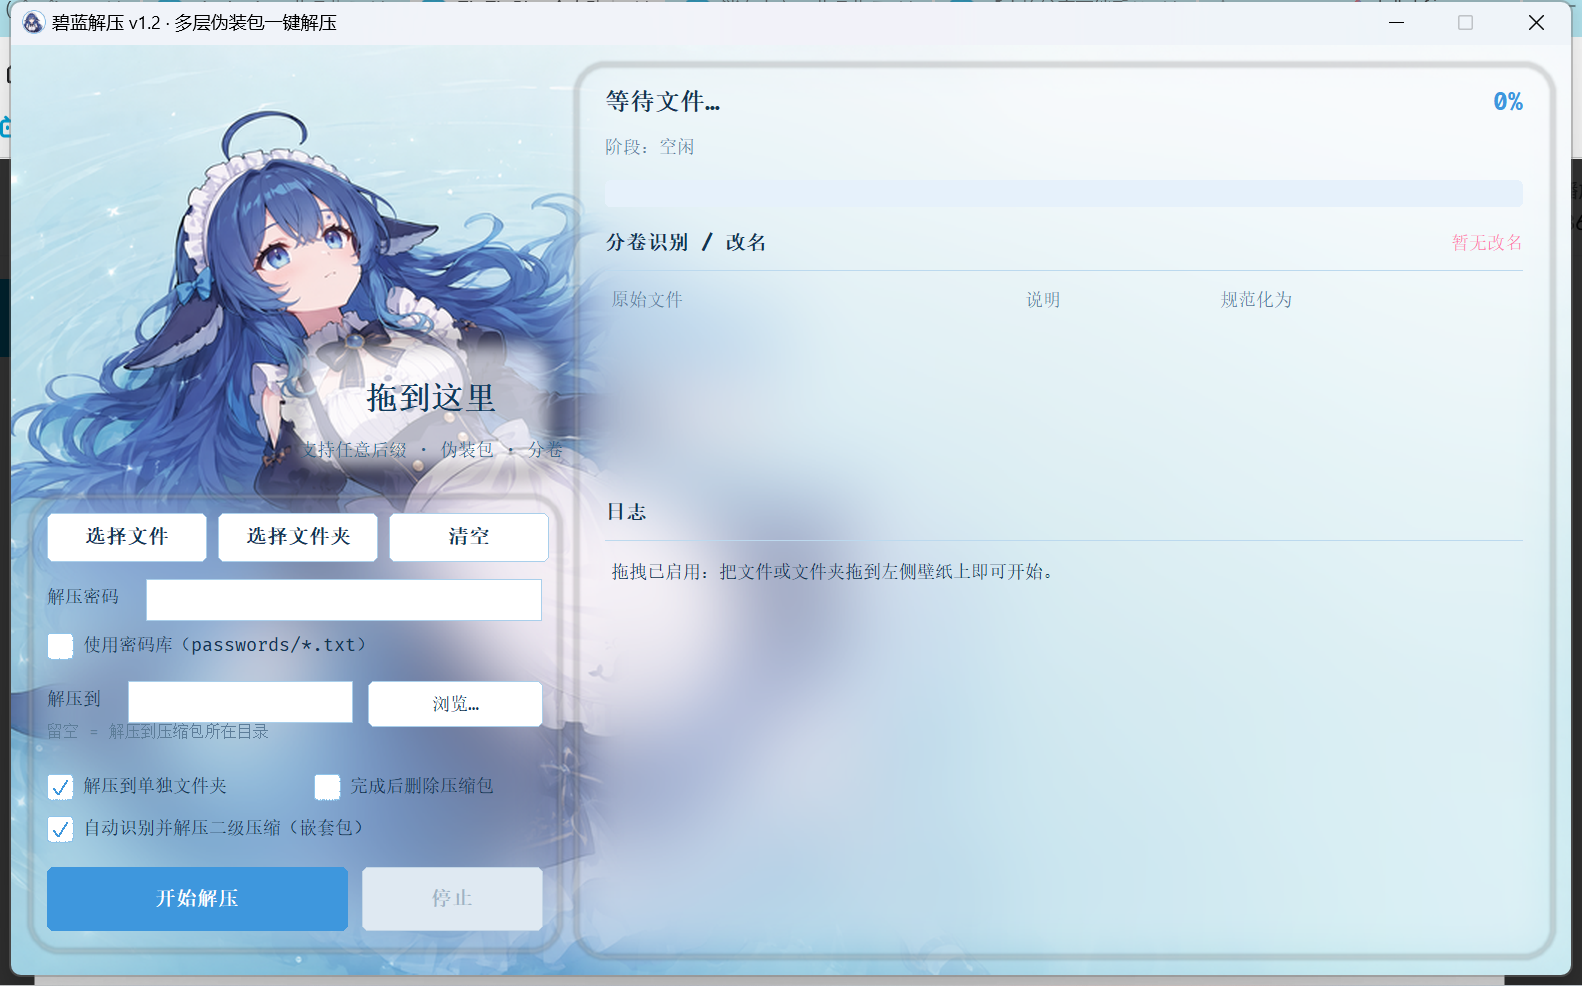
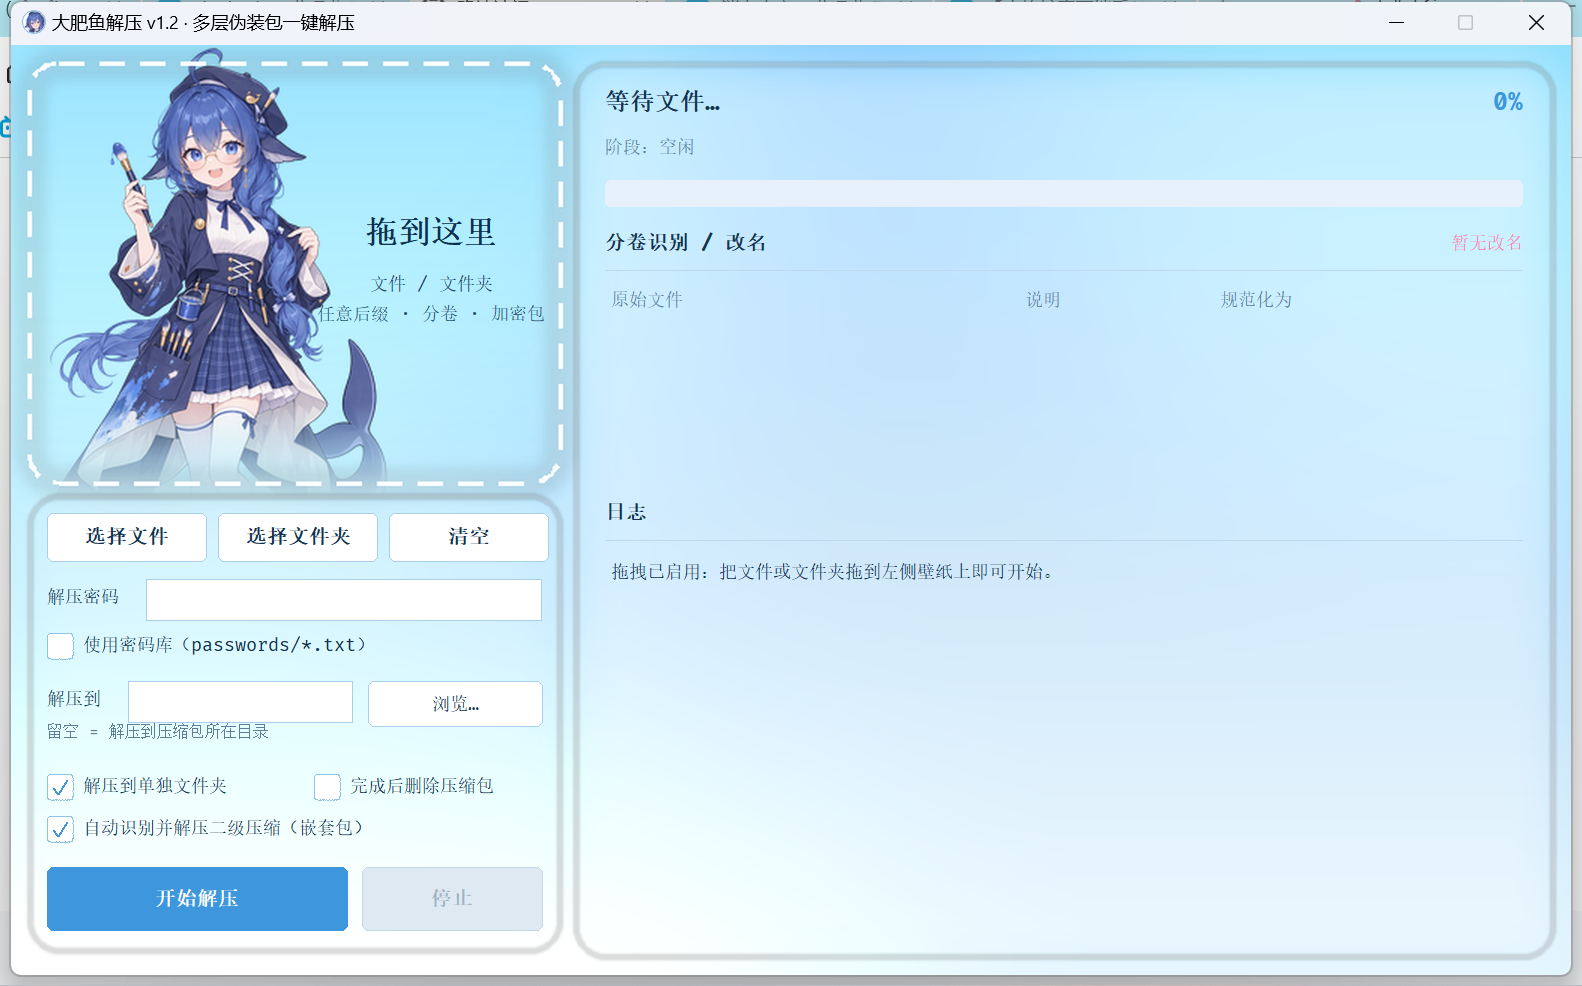
改名：大肥鱼解压 v1.2

diff --git a/make_assets.py b/make_assets.py
@@ -44,10 +44,22 @@ glow = glow.filter(ImageFilter.GaussianBlur(90))
 base = ImageChops.add(base, glow.point(lambda v: int(v * 0.18)))
 base = base.convert('RGBA')
 
-# 2) 插画：整窗铺满（镜像让人物落在左侧投放区）
-art = Image.open(os.path.join(ART, 'hd_water.png')).convert('RGB')
-art = art.transpose(Image.FLIP_LEFT_RIGHT)
-base = cover(art, W, H, anchor_x=0.5, anchor_y=0.45).convert('RGBA')
+# 2) 人物：高清透明立绘，放在投放区右侧（原阿罗娜位置）
+char = Image.open(os.path.join(ART, 'char_hd.png')).convert('RGBA')
+char = char.crop((0, 0, char.width, int(char.height * 0.72)))    # 头到膝
+target_h = 300
+ratio = target_h / char.height
+char = char.resize((max(1, int(char.width * ratio)), target_h), Image.LANCZOS)
+
+fmask = Image.new('L', char.size, 255)
+md = ImageDraw.Draw(fmask)
+fade = 64
+for i in range(fade):
+    y = char.height - fade + i
+    md.line([(0, y), (char.width, y)], fill=int(255 * (1 - i / fade)))
+char.putalpha(ImageChops.multiply(char.getchannel('A'), fmask))
+
+base.alpha_composite(char, (DROP_BOX[0] + 6, 2))
 
 # 3) 毛玻璃面板
 blur = base.filter(ImageFilter.GaussianBlur(24))
@@ -56,8 +68,7 @@ for box, alpha in ((LEFT_BOX, 0.26), (RIGHT_BOX, 0.42)):
     mask = Image.new('L', (W, H), 0)
     ImageDraw.Draw(mask).rounded_rectangle(box, radius=20, fill=255)
     mask = mask.filter(ImageFilter.GaussianBlur(14))
-    frosted = Image.blend(blur, white, alpha)
-    base = Image.composite(frosted, base, mask)
+    base = Image.composite(Image.blend(blur, white, alpha), base, mask)
 
 edge = Image.new('RGBA', (W, H), (0, 0, 0, 0))
 ed = ImageDraw.Draw(edge)
@@ -65,19 +76,64 @@ for box in (LEFT_BOX, RIGHT_BOX):
     ed.rounded_rectangle(box, radius=20, outline=(255, 255, 255, 140), width=2)
 base = Image.alpha_composite(base, edge.filter(ImageFilter.GaussianBlur(1.2)))
 
-# 4) 投放区文字底衬（让"拖到这里"在人物上也能看清）
-plate = Image.new('RGBA', (W, H), (0, 0, 0, 0))
-pl = ImageDraw.Draw(plate)
-pl.rounded_rectangle([150, 198, 364, 288], radius=18, fill=(255, 255, 255, 172))
-plate = plate.filter(ImageFilter.GaussianBlur(7))
-base = Image.alpha_composite(base, plate)
+# 4) 投放区：虚线边框 + 底部文字底衬
+def dashed_round_rect(draw, box, radius, color, width=3, dash=16, gap=11):
+    import math
+    x0, y0, x1, y1 = box
+    path = []
+    def arc(cx, cy, a0, a1, steps=14):
+        for i in range(steps + 1):
+            a = math.radians(a0 + (a1 - a0) * i / steps)
+            path.append((cx + math.cos(a) * radius, cy + math.sin(a) * radius))
+    path.append((x0 + radius, y0))
+    path.append((x1 - radius, y0)); arc(x1 - radius, y0 + radius, -90, 0)
+    path.append((x1, y1 - radius)); arc(x1 - radius, y1 - radius, 0, 90)
+    path.append((x0 + radius, y1)); arc(x0 + radius, y1 - radius, 90, 180)
+    path.append((x0, y0 + radius)); arc(x0 + radius, y0 + radius, 180, 270)
+
+    prev = path[0]
+    on, acc = True, 0.0
+    for cur in path[1:]:
+        seg = math.dist(prev, cur)
+        if seg <= 0:
+            continue
+        t = 0.0
+        while t < seg:
+            remain = (dash if on else gap) - acc
+            step = min(remain, seg - t)
+            x_prev = prev[0] + (cur[0] - prev[0]) * (t / seg)
+            y_prev = prev[1] + (cur[1] - prev[1]) * (t / seg)
+            x_next = prev[0] + (cur[0] - prev[0]) * ((t + step) / seg)
+            y_next = prev[1] + (cur[1] - prev[1]) * ((t + step) / seg)
+            if on:
+                draw.line([(x_prev, y_prev), (x_next, y_next)], fill=color, width=width)
+            t += step
+            acc += step
+            if acc >= (dash if on else gap):
+                acc = 0.0
+                on = not on
+        prev = cur
+
+
+dl = Image.new('RGBA', (W, H), (0, 0, 0, 0))
+dd = ImageDraw.Draw(dl)
+dd.rounded_rectangle([DROP_BOX[0] - 3, DROP_BOX[1] - 3, DROP_BOX[2] + 3, DROP_BOX[3] + 3],
+                     radius=22, outline=(255, 255, 255, 90), width=8)
+base = Image.alpha_composite(base, dl.filter(ImageFilter.GaussianBlur(6)))
+
+dl2 = Image.new('RGBA', (W, H), (0, 0, 0, 0))
+dashed_round_rect(ImageDraw.Draw(dl2), DROP_BOX, 20, (255, 255, 255, 240), width=3)
+base = Image.alpha_composite(base, dl2)
+
 
 base.convert('RGB').save(os.path.join(OUT, 'wallpaper.png'), optimize=True)
 print('wallpaper.png', base.size)
 
 # ---------------------------------------------------------------- 图标（取正面立绘头部）
-sheet = Image.open(os.path.join(ART, 'hd_sheet.png')).convert('RGB')
-head = sheet.crop((250, 20, 640, 410)).resize((512, 512), Image.LANCZOS).convert('RGBA')
+sheet = Image.open(os.path.join(ART, 'char_hd.png')).convert('RGBA')
+head = sheet.crop((300, 70, 790, 560)).resize((512, 512), Image.LANCZOS)
+pad = Image.new('RGBA', head.size, (255, 255, 255, 255))
+head = Image.alpha_composite(pad, head)
 
 S = 512
 icon = Image.new('RGBA', (S, S), (0, 0, 0, 0))

diff --git a/unzip_gui.py b/unzip_gui.py
@@ -367,11 +367,13 @@ class App:
     # ------------------------------------------------------------- 投放区
     def _draw_drop_area(self):
         x0, y0, x1, y1 = DROP
-        cx = x1 - 86
-        self.canvas.create_text(cx, y0 + 224, text="拖到这里", font=(F, 16, "bold"),
-                                fill="#0f3a5c", tags="drop")
-        self.canvas.create_text(cx, y0 + 258, text="支持任意后缀 · 伪装包 · 分卷",
-                                font=FONT_SM, fill="#2c5d80", tags="drop")
+        cx = x0 + 268
+        self.canvas.create_text(cx, y0 + 113, text="拖到这里", font=(F, 16, "bold"),
+                                fill="#0b3050", tags="drop")
+        self.canvas.create_text(cx, y0 + 147, text="文件 / 文件夹", font=(F, 9),
+                                fill="#1b4260", tags="drop")
+        self.canvas.create_text(cx, y0 + 167, text="任意后缀 · 分卷 · 加密包",
+                                font=(F, 9), fill="#2c5570", tags="drop")
 
     def _draw_drop_hint(self, hover):
         self.canvas.delete("drophint")

diff --git a/README.md b/README.md
@@ -1,4 +1,4 @@
-# 碧蓝解压（Blue Unzip）
+# 大肥鱼解压（Blue Unzip）
 
 > 多层伪装压缩包一键解压工具 · Windows 图形界面
 > 把「改成任意后缀的压缩包」「改名过的分卷包」拖进来，一键解到最内层。
@@ -24,8 +24,8 @@
 
 ## 快速开始
 
-1. 下载 Release 里的 `碧蓝解压_vX.X.zip`，解压到任意目录（**整个文件夹一起用**，别只拿 exe）。
-2. 双击 `碧蓝解压.exe`。
+1. 下载 Release 里的 `大肥鱼解压_vX.X.zip`，解压到任意目录（**整个文件夹一起用**，别只拿 exe）。
+2. 双击 `大肥鱼解压.exe`。
 3. 把文件或文件夹拖到左侧区域即可。
 
 > 内置 `7z/` 是解压引擎，`assets/` 是主题素材与字体，缺一不可。
@@ -40,7 +40,7 @@
 ## 命令行版
 
 ```bat
-碧蓝解压-命令行.exe [选项] 文件或文件夹 [更多路径…]
+大肥鱼解压-命令行.exe [选项] 文件或文件夹 [更多路径…]
 
   --out DIR        解压到指定目录
   --no-separate    不再套一层同名文件夹
@@ -58,7 +58,7 @@ py unzip_gui.py
 打包（需要 PyInstaller）：
 
 ```bat
-py -m PyInstaller --onefile --windowed --name 碧蓝解压 ^
+py -m PyInstaller --onefile --windowed --name 大肥鱼解压 ^
   --icon assets/icon.ico --add-data "assets;assets" ^
   --collect-all tkinterdnd2 --collect-submodules PIL unzip_gui.py
 ```
